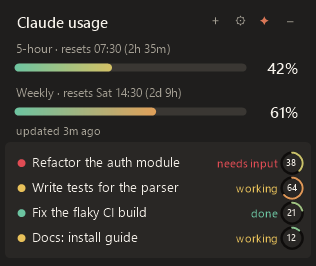
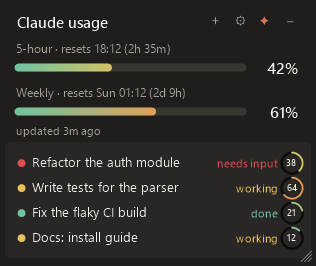
Resize the card by dragging its corner grip
Dragging the grip in the bottom-right corner scales the whole card, text
included, from 70% to 250%; the size is remembered, and menu -> Display ->
Reset size brings it back. Lock position locks the size too.

Claude-Session: https://claude.ai/code/session_01Vy4RdZmviop395Qm1MSJ9m

Changed region(s): [[0.3133, 0.3308, 0.5981, 0.391], [0.2848, 0.1504, 0.3987, 0.2105], [0.9399, 0.9323, 0.9968, 0.9925]]

diff --git a/Program.cs b/Program.cs
@@ -216,6 +216,7 @@ sealed class Settings
     public bool WarnHigh { get; set; } = true;
     public bool Voices { get; set; } = true; // orc peon lines for chat and widget events
     public bool Warcraft { get; set; } = true; // the Warcraft III look; off is the plain dark card
+    public double Zoom { get; set; } = 1; // the card's size, set by dragging its corner grip
     public string? LastFolder { get; set; } // where the last "+" chat started
 
     public static Settings Load()
@@ -781,7 +782,15 @@ sealed class WidgetForm : Form
     bool firstShow = true;
     bool? sessionWasReset, weekWasReset; // null until known, so a window that reset long ago doesn't pop on launch
 
-    float S => DeviceDpi / 96f;
+    float S => DeviceDpi / 96f * (float)Math.Clamp(settings.Zoom, MinZoom, MaxZoom); // monitor DPI times the user's size
+    const double MinZoom = 0.7, MaxZoom = 2.5;
+    // The resize grip in the bottom-right corner, on the frame; dragging it scales the whole card, text included.
+    RectangleF GripBox => new(ClientSize.Width - 18 * S, ClientSize.Height - 18 * S, 18 * S, 18 * S);
+    (Point From, Size Size, double Zoom)? resizing;
+
+    // The new size for a drag of (dx, dy) from a card of the given size: the average of the width and height stretch.
+    public static double Resized(double zoom, Size start, int dx, int dy) =>
+        Math.Round(Math.Clamp(zoom * ((start.Width + dx) / (double)start.Width + (start.Height + dy) / (double)start.Height) / 2, MinZoom, MaxZoom), 2);
     // Layout in unscaled pixels (×S on screen), set by the frame: the iron-bound card, or the thinner wood panel in compact mode.
     float CardWidth => settings.Compact ? 246 : 316;
     float Edge => Theme.Warcraft ? (settings.Compact ? 12 : 17) : (settings.Compact ? 6 : 8); // frame thickness at the sides and bottom
@@ -1128,7 +1137,8 @@ sealed class WidgetForm : Form
                 Toggle("Show weekly limit", () => settings.ShowWeek, v => { settings.ShowWeek = v; settings.ShowSession |= !v; }),
                 Toggle("Show chats panel", () => settings.ShowChats, v => { settings.ShowChats = v; chats = []; chatsDirty = true; }),
                 new ToolStripSeparator(),
-                Toggle("Warcraft III look", () => settings.Warcraft, v => { settings.Warcraft = Theme.Warcraft = v; ApplyStyle(); })),
+                Toggle("Warcraft III look", () => settings.Warcraft, v => { settings.Warcraft = Theme.Warcraft = v; ApplyStyle(); }),
+                new ToolStripMenuItem("Reset size", null, (_, _) => { settings.Zoom = 1; settings.Save(); ApplyLayout(); })),
             Submenu("Alerts",
                 Toggle("Notify when a limit resets", () => settings.NotifyOnReset, v => settings.NotifyOnReset = v),
                 Toggle("Warn at 80% and 95%", () => settings.WarnHigh, v => settings.WarnHigh = v),
@@ -1316,6 +1326,7 @@ sealed class WidgetForm : Form
             return;
         }
         if (e.Button != MouseButtons.Left) return;
+        if (GripBox.Contains(e.Location) && !settings.Locked) { resizing = (Cursor.Position, ClientSize, settings.Zoom); return; }
         if (ChatAt(e.Location) is { } chat) { OpenChat(chat); return; }
         if (!settings.Compact) // compact mode has no buttons
         {
@@ -1333,11 +1344,26 @@ sealed class WidgetForm : Form
     protected override void OnMouseMove(MouseEventArgs e)
     {
         base.OnMouseMove(e);
+        if (resizing is var (from, size, zoom0))
+        {
+            double zoom = Resized(zoom0, size, Cursor.Position.X - from.X, Cursor.Position.Y - from.Y);
+            if (zoom != settings.Zoom) { settings.Zoom = zoom; ApplyLayout(); }
+            return;
+        }
+        Cursor = GripBox.Contains(e.Location) && !settings.Locked ? Cursors.SizeNWSE : Theme.Warcraft ? Art.Cursor : Cursors.Default;
         var chat = ChatAt(e.Location);
         if (chat?.Id == hoveredChat) return;
         hoveredChat = chat?.Id;
         if (chat == null) chatTip.Hide(this);
         else ShowChatTip(chat);
+    }
+
+    protected override void OnMouseUp(MouseEventArgs e)
+    {
+        base.OnMouseUp(e);
+        if (resizing == null) return;
+        resizing = null;
+        settings.Save();
     }
 
     // Beside the card, never over it: a tip that lands under the cursor takes the mouse, hides itself, and flickers.
@@ -1550,6 +1576,14 @@ sealed class WidgetForm : Form
                 g.DrawString(name, Art.Covers(name) ? nameFont : nameFallback, fgBrush, nameBox, ellipsis);
             }
         }
+
+        // The resize grip: three short diagonal strokes in the corner, gold on the iron frame, grey on the plain card.
+        if (!settings.Locked)
+            using (var grip = new Pen(Theme.Warcraft ? Theme.Gold : Theme.Muted, Math.Max(1, 1.4f * s)))
+            {
+                float gx = ClientSize.Width - 5 * s, gy = ClientSize.Height - 5 * s;
+                for (int k = 1; k <= 3; k++) g.DrawLine(grip, gx - 3.5f * k * s, gy, gx, gy - 3.5f * k * s);
+            }
 
         if (settings.Compact)
         {
@@ -1878,6 +1912,9 @@ static class SelfTest
         Check(new Limit(50, t0.AddHours(2.5)).FullAt(TimeSpan.FromHours(5)) == null
             && new Limit(10, t0.AddHours(4.9)).FullAt(TimeSpan.FromHours(5)) == null, "no forecast when it lasts, or too early to tell");
         Check(Fmt.Detail("5-hour", pace, TimeSpan.FromHours(5)).Contains("full ~"), "forecast shows on the card");
+        var card = new Size(316, 200);
+        Check(WidgetForm.Resized(1, card, 158, 100) == 1.5 && WidgetForm.Resized(1, card, -158, -100) == 0.7
+            && WidgetForm.Resized(2, card, 5000, 5000) == 2.5 && WidgetForm.Resized(1.2, card, 0, 0) == 1.2, "the corner grip scales within 70%-250%");
         Check(WidgetForm.Crossed(79, 81) && WidgetForm.Crossed(70, 96) && !WidgetForm.Crossed(81, 90) && !WidgetForm.Crossed(96, 99), "warns once per threshold");
         Check(Art.Card != null && Art.Panel != null && Art.Button != null && Art.Bar != null && Art.Serif.Name == "Cinzel"
             && Art.Cursor != Cursors.Default, "Warcraft art, font and cursor ship in art\\");

diff --git a/README.md b/README.md
@@ -21,7 +21,7 @@ Needs Windows 10 or 11 and Claude Code on a Pro or Max plan (only those plans re
 - **Usage limits**: 5-hour and weekly, with reset times and a countdown. When your pace this window would hit the limit before it resets, the line turns orange: `full ~16:40 · resets 18:00`. Notifications at 80% and 95%, and when a limit resets (with confetti).
 - **Chats panel**: your background Claude Code chats (`claude --bg`, agent view), marked **needs input**, **working** or **done**, each with a ring showing its context use. Hover for what it's doing now; click to open it in PowerShell; middle-click for its folder; right-click to stop or remove it. `+` starts a new background chat.
 - **Two looks** (menu → Display → Warcraft III look): the Warcraft one is drawn from [warcraftcn/ui](https://github.com/TheOrcDev/warcraftcn-ui) art, with loading-bar limits, the Cinzel font, the orc gauntlet cursor and game sounds. Click the card too many times and, like a Warcraft III critter, it bursts. The plain one is a dark card with rounded corners.
-- **Small things**: drag to move, scroll to change opacity, Esc or `–` hides it to the tray (its icon is a column filling with your 5-hour usage), middle-click the bars for compact mode, always on top, click-through, lock position, start with Windows.
+- **Small things**: drag to move, drag the corner grip to resize the whole card (text included; menu → Display → Reset size), scroll to change opacity, Esc or `–` hides it to the tray (its icon is a column filling with your 5-hour usage), middle-click the bars for compact mode, always on top, click-through, lock position, start with Windows.
 
 ## Sounds
 
